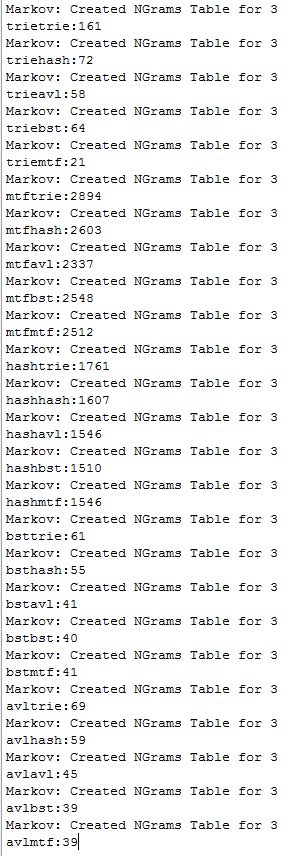
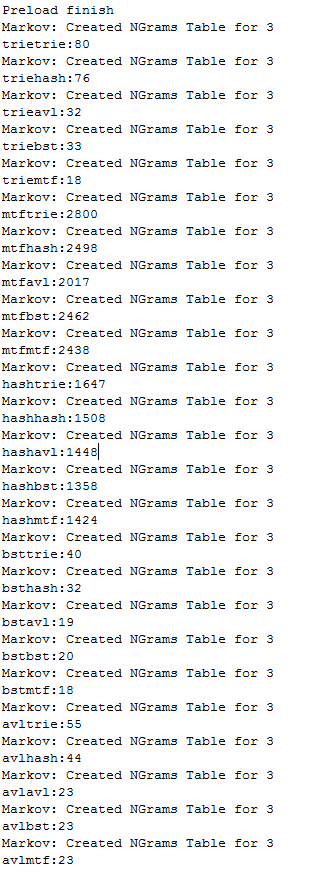
png for small test

diff --git a/src/experiment/generalDictNGramTester.java b/src/experiment/generalDictNGramTester.java
@@ -1,16 +1,20 @@
 package experiment;
 
+import java.io.FileReader;
 import java.io.IOException;
 import java.util.function.Supplier;
 
 import cse332.interfaces.misc.BString;
 import cse332.interfaces.misc.Dictionary;
+import cse332.misc.WordReader;
 import cse332.types.AlphabeticString;
 import cse332.types.NGram;
 import datastructures.dictionaries.HashTrieMap;
 import p2.wordsuggestor.WordSuggestor;
 
 public class generalDictNGramTester {
+    
+    public static final String FILE_NAME = "random_dic_large.txt";
 
     @SuppressWarnings({ "rawtypes", "unchecked" })
     public static <K, V> Supplier<Dictionary<K, V>> bstConstructor() {
@@ -39,23 +43,23 @@ public class generalDictNGramTester {
     public static void main(String[] args) {
         preload();
 
-  /*      trietrie();
+        trietrie();
         triehash();
-        trieavl();*/
+        trieavl();
         triebst();
         triemtf();
         
-    /*    mtftrie();
+        mtftrie();
         mtfhash();
         mtfavl();
         mtfbst();
-        mtfmtf();*/
+        mtfmtf();
         
-    /*    hashtrie();
+        hashtrie();
         hashhash();
         hashavl();
         hashbst();
-        hashmtf();*/
+        hashmtf();
         
         bsttrie();
         bsthash();
@@ -70,33 +74,26 @@ public class generalDictNGramTester {
         avlmtf();
    }
 
-  /*  public static <A, K, V> void oneTest(Supplier<Dictionary<A, Dictionary<K, V>>> outer,
-            Supplier<Dictionary<K, V>> inner) {
-        try {
-            long startTime = System.currentTimeMillis();
-            WordSuggestor suggestions = new WordSuggestor("random_dic_large.txt", 3, -1, outer, inner);
-            // suggestions.toString();
-            long endTime = System.currentTimeMillis();
-            System.out.println((endTime - startTime));
-        } catch (IOException e) {
-            e.printStackTrace();
-        }
-    }*/
+    
+//    public static void preload() {
+//        String str;
+//        try {
+//            WordReader wr = new WordReader(new FileReader(FILE_NAME));
+//            while (wr.hasNext()) {
+//                str = wr.next();
+//            }
+//            wr.close();
+//        } catch (IOException e) {
+//            e.printStackTrace();
+//        }
+//    }
     
     public static void preload() {
         try {
-//            long startTime = System.currentTimeMillis();
-            WordSuggestor suggestions1 = new WordSuggestor("spoken.corpus", 3, -1,
+            WordSuggestor suggestions = new WordSuggestor(FILE_NAME, 3, -1,
                     trieConstructor(NGram.class),
                     mtfListConstructor());
-            WordSuggestor suggestions = new WordSuggestor("spoken.corpus", 3, -1,
-                    trieConstructor(NGram.class),
-                    bstConstructor());
-            
-            // suggestions.toString();
-//            long endTime = System.currentTimeMillis();
-            System.out.println("preload finished");
-            
+            System.out.println("Preload finish");
         } catch (IOException e) {
             e.printStackTrace();
         }
@@ -106,7 +103,7 @@ public class generalDictNGramTester {
     public static void trietrie() {
         try {
             long startTime = System.currentTimeMillis();
-            WordSuggestor suggestions = new WordSuggestor("random_dic_large.txt", 3, -1,
+            WordSuggestor suggestions = new WordSuggestor(FILE_NAME, 3, -1,
                     trieConstructor(NGram.class),
                     trieConstructor(AlphabeticString.class));
             // suggestions.toString();
@@ -120,7 +117,7 @@ public class generalDictNGramTester {
     public static void triehash() {
         try {
             long startTime = System.currentTimeMillis();
-            WordSuggestor suggestions = new WordSuggestor("random_dic_large.txt", 3, -1,
+            WordSuggestor suggestions = new WordSuggestor(FILE_NAME, 3, -1,
                     trieConstructor(NGram.class),
                     hashtableConstructor(mtfListConstructor()));
             // suggestions.toString();
@@ -134,7 +131,7 @@ public class generalDictNGramTester {
     public static void triemtf() {
         try {
             long startTime = System.currentTimeMillis();
-            WordSuggestor suggestions = new WordSuggestor("spoken.corpus", 3, -1,
+            WordSuggestor suggestions = new WordSuggestor(FILE_NAME, 3, -1,
                     trieConstructor(NGram.class),
                     mtfListConstructor());
             // suggestions.toString();
@@ -148,7 +145,7 @@ public class generalDictNGramTester {
     public static void trieavl() {
         try {
             long startTime = System.currentTimeMillis();
-            WordSuggestor suggestions = new WordSuggestor("random_dic_large.txt", 3, -1,
+            WordSuggestor suggestions = new WordSuggestor(FILE_NAME, 3, -1,
                     trieConstructor(NGram.class),
                     avlConstructor());
             // suggestions.toString();
@@ -162,7 +159,7 @@ public class generalDictNGramTester {
     public static void triebst() {
         try {
             long startTime = System.currentTimeMillis();
-            WordSuggestor suggestions = new WordSuggestor("spoken.corpus", 3, -1,
+            WordSuggestor suggestions = new WordSuggestor(FILE_NAME, 3, -1,
                     trieConstructor(NGram.class),
                     bstConstructor());
             // suggestions.toString();
@@ -176,7 +173,7 @@ public class generalDictNGramTester {
     public static void mtftrie() {
         try {
             long startTime = System.currentTimeMillis();
-            WordSuggestor suggestions = new WordSuggestor("random_dic_large.txt", 3, -1,
+            WordSuggestor suggestions = new WordSuggestor(FILE_NAME, 3, -1,
                     mtfListConstructor(),
                     trieConstructor(AlphabeticString.class));
             // suggestions.toString();
@@ -190,7 +187,7 @@ public class generalDictNGramTester {
     public static void mtfmtf() {
         try {
             long startTime = System.currentTimeMillis();
-            WordSuggestor suggestions = new WordSuggestor("random_dic_large.txt", 3, -1,
+            WordSuggestor suggestions = new WordSuggestor(FILE_NAME, 3, -1,
                     mtfListConstructor(),
                     mtfListConstructor());
             // suggestions.toString();
@@ -204,7 +201,7 @@ public class generalDictNGramTester {
     public static void mtfavl() {
         try {
             long startTime = System.currentTimeMillis();
-            WordSuggestor suggestions = new WordSuggestor("random_dic_large.txt", 3, -1,
+            WordSuggestor suggestions = new WordSuggestor(FILE_NAME, 3, -1,
                     mtfListConstructor(),
                     avlConstructor());
             // suggestions.toString();
@@ -218,7 +215,7 @@ public class generalDictNGramTester {
     public static void mtfbst() {
         try {
             long startTime = System.currentTimeMillis();
-            WordSuggestor suggestions = new WordSuggestor("random_dic_large.txt", 3, -1,
+            WordSuggestor suggestions = new WordSuggestor(FILE_NAME, 3, -1,
                     mtfListConstructor(),
                     bstConstructor());
             // suggestions.toString();
@@ -232,7 +229,7 @@ public class generalDictNGramTester {
     public static void mtfhash() {
         try {
             long startTime = System.currentTimeMillis();
-            WordSuggestor suggestions = new WordSuggestor("random_dic_large.txt", 3, -1,
+            WordSuggestor suggestions = new WordSuggestor(FILE_NAME, 3, -1,
                     mtfListConstructor(),
                     hashtableConstructor(mtfListConstructor()));
             // suggestions.toString();
@@ -246,7 +243,7 @@ public class generalDictNGramTester {
     public static void hashhash() {
         try {
             long startTime = System.currentTimeMillis();
-            WordSuggestor suggestions = new WordSuggestor("random_dic_large.txt", 3, -1,
+            WordSuggestor suggestions = new WordSuggestor(FILE_NAME, 3, -1,
                     hashtableConstructor(mtfListConstructor()),
                     hashtableConstructor(mtfListConstructor()));
             // suggestions.toString();
@@ -260,7 +257,7 @@ public class generalDictNGramTester {
     public static void hashtrie() {
         try {
             long startTime = System.currentTimeMillis();
-            WordSuggestor suggestions = new WordSuggestor("random_dic_large.txt", 3, -1,
+            WordSuggestor suggestions = new WordSuggestor(FILE_NAME, 3, -1,
                     hashtableConstructor(mtfListConstructor()),
                     trieConstructor(AlphabeticString.class));
             // suggestions.toString();
@@ -274,7 +271,7 @@ public class generalDictNGramTester {
     public static void hashavl() {
         try {
             long startTime = System.currentTimeMillis();
-            WordSuggestor suggestions = new WordSuggestor("random_dic_large.txt", 3, -1,
+            WordSuggestor suggestions = new WordSuggestor(FILE_NAME, 3, -1,
                     hashtableConstructor(mtfListConstructor()),
                     avlConstructor());
             // suggestions.toString();
@@ -288,7 +285,7 @@ public class generalDictNGramTester {
     public static void hashbst() {
         try {
             long startTime = System.currentTimeMillis();
-            WordSuggestor suggestions = new WordSuggestor("random_dic_large.txt", 3, -1,
+            WordSuggestor suggestions = new WordSuggestor(FILE_NAME, 3, -1,
                     hashtableConstructor(mtfListConstructor()),
                     bstConstructor());
             // suggestions.toString();
@@ -302,7 +299,7 @@ public class generalDictNGramTester {
     public static void hashmtf() {
         try {
             long startTime = System.currentTimeMillis();
-            WordSuggestor suggestions = new WordSuggestor("random_dic_large.txt", 3, -1,
+            WordSuggestor suggestions = new WordSuggestor(FILE_NAME, 3, -1,
                     hashtableConstructor(mtfListConstructor()),
                     mtfListConstructor());
             // suggestions.toString();
@@ -316,7 +313,7 @@ public class generalDictNGramTester {
     public static void bstbst() {
         try {
             long startTime = System.currentTimeMillis();
-            WordSuggestor suggestions = new WordSuggestor("random_dic_large.txt", 3, -1,
+            WordSuggestor suggestions = new WordSuggestor(FILE_NAME, 3, -1,
                     bstConstructor(),
                     bstConstructor());
             // suggestions.toString();
@@ -330,7 +327,7 @@ public class generalDictNGramTester {
     public static void bsttrie() {
         try {
             long startTime = System.currentTimeMillis();
-            WordSuggestor suggestions = new WordSuggestor("random_dic_large.txt", 3, -1,
+            WordSuggestor suggestions = new WordSuggestor(FILE_NAME, 3, -1,
                     bstConstructor(),
                     trieConstructor(AlphabeticString.class));
             // suggestions.toString();
@@ -344,7 +341,7 @@ public class generalDictNGramTester {
     public static void bstavl() {
         try {
             long startTime = System.currentTimeMillis();
-            WordSuggestor suggestions = new WordSuggestor("random_dic_large.txt", 3, -1,
+            WordSuggestor suggestions = new WordSuggestor(FILE_NAME, 3, -1,
                     bstConstructor(),
                     avlConstructor());
             // suggestions.toString();
@@ -358,7 +355,7 @@ public class generalDictNGramTester {
     public static void bstmtf() {
         try {
             long startTime = System.currentTimeMillis();
-            WordSuggestor suggestions = new WordSuggestor("random_dic_large.txt", 3, -1,
+            WordSuggestor suggestions = new WordSuggestor(FILE_NAME, 3, -1,
                     bstConstructor(),
                     mtfListConstructor());
             // suggestions.toString();
@@ -372,7 +369,7 @@ public class generalDictNGramTester {
     public static void bsthash() {
         try {
             long startTime = System.currentTimeMillis();
-            WordSuggestor suggestions = new WordSuggestor("random_dic_large.txt", 3, -1,
+            WordSuggestor suggestions = new WordSuggestor(FILE_NAME, 3, -1,
                     bstConstructor(),
                     hashtableConstructor(mtfListConstructor()));
             // suggestions.toString();
@@ -386,7 +383,7 @@ public class generalDictNGramTester {
     public static void avltrie() {
         try {
             long startTime = System.currentTimeMillis();
-            WordSuggestor suggestions = new WordSuggestor("random_dic_large.txt", 3, -1,
+            WordSuggestor suggestions = new WordSuggestor(FILE_NAME, 3, -1,
                     avlConstructor(),
                     trieConstructor(AlphabeticString.class));
             // suggestions.toString();
@@ -400,7 +397,7 @@ public class generalDictNGramTester {
     public static void avlavl() {
         try {
             long startTime = System.currentTimeMillis();
-            WordSuggestor suggestions = new WordSuggestor("random_dic_large.txt", 3, -1,
+            WordSuggestor suggestions = new WordSuggestor(FILE_NAME, 3, -1,
                     avlConstructor(),
                     avlConstructor());
             // suggestions.toString();
@@ -414,7 +411,7 @@ public class generalDictNGramTester {
     public static void avlhash() {
         try {
             long startTime = System.currentTimeMillis();
-            WordSuggestor suggestions = new WordSuggestor("random_dic_large.txt", 3, -1,
+            WordSuggestor suggestions = new WordSuggestor(FILE_NAME, 3, -1,
                     avlConstructor(),
                     hashtableConstructor(mtfListConstructor()));
             // suggestions.toString();
@@ -428,7 +425,7 @@ public class generalDictNGramTester {
     public static void avlbst() {
         try {
             long startTime = System.currentTimeMillis();
-            WordSuggestor suggestions = new WordSuggestor("random_dic_large.txt", 3, -1,
+            WordSuggestor suggestions = new WordSuggestor(FILE_NAME, 3, -1,
                     avlConstructor(),
                     bstConstructor());
             // suggestions.toString();
@@ -442,7 +439,7 @@ public class generalDictNGramTester {
     public static void avlmtf() {
         try {
             long startTime = System.currentTimeMillis();
-            WordSuggestor suggestions = new WordSuggestor("random_dic_large.txt", 3, -1,
+            WordSuggestor suggestions = new WordSuggestor(FILE_NAME, 3, -1,
                     avlConstructor(),
                     mtfListConstructor());
             // suggestions.toString();
